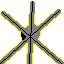
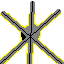
#17: Better sprite for selected obstacle. Add support for selecting obstacles on the map and displaying their HP.

diff --git a/TowerDefenseAttempt1/org/valesz/towerdefatt/Core/Map.cs b/TowerDefenseAttempt1/org/valesz/towerdefatt/Core/Map.cs
@@ -1,6 +1,7 @@
 using System.Collections.Generic;
 using TowerDefenseAttempt1.org.valesz.towerdefatt.Core.Statistics;
 using TowerDefenseAttempt1.org.valesz.towerdefatt.Core.GameShop;
+using Microsoft.Xna.Framework;
 
 namespace TowerDefenseAttempt1.org.valesz.towerdefatt.Core
 {
@@ -62,9 +63,9 @@ namespace TowerDefenseAttempt1.org.valesz.towerdefatt.Core
         public IStatsCollector StatsCollector { get; set; }
 
         /// <summary>
-        /// Tower on map selected by player. Initialized to null.
+        /// Item on a map selected by player. Initialized to null.
         /// </summary>
-        public ITower SelectedMapTower { get; private set; }
+        public ISelectable SelectedItem { get; private set; }
 
         /// <summary>
         /// Spawner to be used on this map.
@@ -85,7 +86,7 @@ namespace TowerDefenseAttempt1.org.valesz.towerdefatt.Core
             Shop = new Shop(availableTowers, availableObstacles);
             Score = 0;
             Money = startingMoney;
-            DeselectMapTower();
+            DeselectMapItems();
             this.spawner = spawner;
             SpawnEnemies();
         }
@@ -162,14 +163,19 @@ namespace TowerDefenseAttempt1.org.valesz.towerdefatt.Core
         }
 
         /// <summary>
-        /// Deselects selected tower on map (if any).
+        /// Deselects selected item on map (if any).
         /// </summary>
-        public void DeselectMapTower()
+        public void DeselectMapItems()
         {
-            SelectedMapTower = null;
+            SelectedItem = null;
             foreach(ITower t in Towers)
             {
                 t.Selected = false;
+            }
+
+            foreach(IObstacle o in Obstacles)
+            {
+                o.Selected = false;
             }
         }
 
@@ -179,10 +185,16 @@ namespace TowerDefenseAttempt1.org.valesz.towerdefatt.Core
         /// </summary>
         public void UpgradeSelectedTower()
         {
-            if (SelectedMapTower != null && Money >= SelectedMapTower.UpgradePrice)
+            if (SelectedItem == null || !(SelectedItem is ITower))
             {
-                Money -= SelectedMapTower.UpgradePrice;
-                SelectedMapTower.Upgrade();
+                return;
+            }
+
+            ITower selectedTower = (ITower)SelectedItem;
+            if (Money >= selectedTower.UpgradePrice)
+            {
+                Money -= selectedTower.UpgradePrice;
+                selectedTower.Upgrade();
                 CollectStatistics(StatsCollectionEvent.TOWER_UPGRADE);
             }
         }
@@ -220,39 +232,72 @@ namespace TowerDefenseAttempt1.org.valesz.towerdefatt.Core
         }
 
         /// <summary>
-        /// Deselects all previously selected towers (on the map) and then selects tower on the map. If the tower on the given coordinates is already
+        /// Deselects all previously selected items (on the map) and then selects one on the map. If the item on the given coordinates is already
         /// selected, this method just deselects it.
         /// </summary>
         /// <param name="x"></param>
         /// <param name="y"></param>
-        public void SelectTowerOnTheMap(float x, float y)
+        public void SelectItemOnTheMap(float x, float y)
         {
             foreach (ITower mapTower in Towers)
             {
-                if ((mapTower.Position.X <= x && mapTower.Position.X + 64 >= x) &&
-                    (mapTower.Position.Y <= y && mapTower.Position.Y + 64 >= y)
-                    )
+                if (mapTower.CheckColision(x, y))
                 {
-                    // tower already selected => deselect
-                    if (mapTower.Selected)
-                    {
-                        DeselectMapTower();
-                    }
-                    else
-                    {
-                        // deselect others and select the current one
-                        DeselectMapTower();
-                        SelectedMapTower = mapTower;
-                        mapTower.Selected = true;
-                    }
+                    HandleItemSelection(mapTower);
+                    return;
+                }
+            }
+
+            foreach (IObstacle obstacle in Obstacles)
+            {
+                if (obstacle.CheckColision(x,y))
+                {
+                    HandleItemSelection(obstacle);
                     return;
                 }
             }
 
             // no tower lise on given coordinates => deselect
-            DeselectMapTower();
+            DeselectMapItems();
         }
 
+        /// <summary>
+        /// Returns any obstacle coliding with the given position.
+        /// </summary>
+        /// <param name="position">Position to check.</param>
+        /// <returns>Obstacle if collision is found or null if nothing is found.</returns>
+        public IObstacle CheckObstacle(Vector2 position)
+        {
+            foreach(IObstacle obstacle in Obstacles)
+            {
+                if (obstacle.CheckColision(position.X, position.Y))
+                {
+                    return obstacle;
+                }
+            }
+
+            return null;
+        }
+
+        /// <summary>
+        /// Handles selection of an item on the map.
+        /// </summary>
+        /// <param name="item">Selected item</param>
+        private void HandleItemSelection(ISelectable item)
+        {
+            // item already selected => deselect
+            if (item.Selected)
+            {
+                DeselectMapItems();
+            }
+            else
+            {
+                // deselect others and select the current one
+                DeselectMapItems();
+                SelectedItem = item;
+                item.Selected = true;
+            }
+        }
 
         /// <summary>
         /// Attempts to call the stat collector with given event. If no collector is set, nothing happens.

diff --git a/TowerDefenseAttempt1/org/valesz/towerdefatt/UI/StatsDisplaySidePanel.cs b/TowerDefenseAttempt1/org/valesz/towerdefatt/UI/StatsDisplaySidePanel.cs
@@ -64,7 +64,7 @@ namespace TowerDefenseAttempt1.org.valesz.towerdefatt.UI
 
             DrawShop(spriteBatch, "Items", cntr++, textures);
 
-            DrawSelectedMapTower(spriteBatch, GameMap.SelectedMapTower, 18);
+            DrawSelectedMapTower(spriteBatch, 18);
         }
 
         /// <summary>
@@ -116,14 +116,24 @@ namespace TowerDefenseAttempt1.org.valesz.towerdefatt.UI
         /// <summary>
         /// Draws tower that is selected on the map.
         /// </summary>
-        private void DrawSelectedMapTower(SpriteBatch spriteBatch, ITower tower, int lineNumber)
+        private void DrawSelectedMapTower(SpriteBatch spriteBatch, int lineNumber)
         {
-            DrawTextLine(spriteBatch, "Selected tower", "", lineNumber);
-            if (GameMap.SelectedMapTower != null)
+            DrawTextLine(spriteBatch, "Selected", "", lineNumber);
+            if (GameMap.SelectedItem == null)
             {
+                return;
+            }
+
+            if (GameMap.SelectedItem is ITower)
+            {
+                ITower tower = (ITower)GameMap.SelectedItem;
                 DrawTextLine(spriteBatch, "Attack", tower.Damage.ToString(), lineNumber+1);
                 DrawTextLine(spriteBatch, "Speed", tower.AttackSpeed.ToString(), lineNumber+2);
                 DrawTextLine(spriteBatch, "(U)pgrade", "x"+tower.UpgradePrice.ToString(), lineNumber+3);
+            } else if (GameMap.SelectedItem is IObstacle)
+            {
+                IObstacle obstacle = (IObstacle)GameMap.SelectedItem;
+                DrawTextLine(spriteBatch, "HP", obstacle.Hp.ToString(), lineNumber + 1);
             }
         }
     }

diff --git a/TowerDefenseAttempt1/Game1.cs b/TowerDefenseAttempt1/Game1.cs
@@ -131,25 +131,34 @@ namespace TowerDefenseAttempt1
             // TODO: Add your update logic here
             if (!gameMap.GameLost() && !gameState.IsPaused())
             {
-                foreach(IHasAI enemy in gameMap.Enemies)
+                foreach (IHasAI enemy in gameMap.Enemies)
                 {
                     enemy.UpdateState(gameMap);
                 }
 
-                foreach(IHasAI tower in gameMap.Towers)
+                foreach (IHasAI tower in gameMap.Towers)
                 {
                     tower.UpdateState(gameMap);
                 }
 
-                for(int i = gameMap.Enemies.Count -1; i >= 0; i--)
+                for (int i = gameMap.Enemies.Count - 1; i >= 0; i--)
                 {
-                    if (gameMap.Enemies[i].Hp == 0)
+                    if (gameMap.Enemies[i].IsDead)
                     {
                         gameMap.AddScore(gameMap.Enemies[i].Value);
                         gameMap.IncrementKillCounter();
                         gameMap.Enemies.RemoveAt(i);
                     }
                 }
+
+                for (int i = gameMap.Obstacles.Count - 1; i >= 0; i--)
+                {
+                    if (gameMap.Obstacles[i].IsDead)
+                    {
+                        gameMap.Obstacles.RemoveAt(i);
+                    }
+                }
+
                 gameMap.SpawnEnemies();
             }
 

diff --git a/TowerDefenseAttempt1/org/valesz/towerdefatt/Controls/MouseHandler.cs b/TowerDefenseAttempt1/org/valesz/towerdefatt/Controls/MouseHandler.cs
@@ -44,10 +44,10 @@ namespace TowerDefenseAttempt1.org.valesz.towerdefatt.Controls
                         if (state.X >= sidePanelX)
                         {
 
-                            if (gameMap.SelectedMapTower != null)
+                            if (gameMap.SelectedItem != null)
                             {
                                 // click ended in the side panel but tower on the map is selected
-                                gameMap.DeselectMapTower();
+                                gameMap.DeselectMapItems();
                             }
 
                             gameMap.Shop.SelectFromShop(state.X, state.Y);
@@ -60,7 +60,7 @@ namespace TowerDefenseAttempt1.org.valesz.towerdefatt.Controls
                         {
                             if (gameMap.Shop.SelectedShopItem == null)
                             {
-                                gameMap.SelectTowerOnTheMap(state.X, state.Y);
+                                gameMap.SelectItemOnTheMap(state.X, state.Y);
                             }
                             else
                             {

diff --git a/TowerDefenseAttempt1/org/valesz/towerdefatt/Core/Abstract/AbstractVisibleObject.cs b/TowerDefenseAttempt1/org/valesz/towerdefatt/Core/Abstract/AbstractVisibleObject.cs
@@ -9,9 +9,23 @@ namespace TowerDefenseAttempt1.org.valesz.towerdefatt.Core.Abstract
     /// </summary>
     public abstract class AbstractVisibleObject : AbstractGameObject, IHasTexture
     {
+        public const uint TEXTURE_WIDTH = 64;
+
         public abstract string TextureName { get; }
         public abstract IEnumerable<string> AllTextures { get; }
 
         public AbstractVisibleObject(float x, float y) : base(x, y) { }
+
+        /// <summary>
+        /// Checks whether the given position collides with this object.
+        /// </summary>
+        /// <param name="x">Position x</param>
+        /// <param name="y">Position y.</param>
+        /// <returns>True if the collision is detected.</returns>
+        public bool CheckColision(float x, float y)
+        {
+            return (Position.X <= x && Position.X + TEXTURE_WIDTH >= x) &&
+                    (Position.Y <= y && Position.Y + TEXTURE_WIDTH >= y);
+        }
     }
 }

diff --git a/TowerDefenseAttempt1/org/valesz/towerdefatt/Enemy/DefaultEnemy.cs b/TowerDefenseAttempt1/org/valesz/towerdefatt/Enemy/DefaultEnemy.cs
@@ -65,7 +65,17 @@ namespace TowerDefenseAttempt1.org.valesz.towerdefatt.Enemy
                 float alpha = (float)Math.Asin(distanceVector.Y / distanceVector.Length());
                 float y1 = (float)(Math.Sin(alpha) * Speed);
                 float x1 = (float)(Math.Cos(alpha) * Speed);
-                Position = new Vector2(Position.X - x1, Position.Y + y1);
+                Vector2 newPosition = new Vector2(Position.X - x1, Position.Y + y1);
+
+                // check if there's an obstacle in the new position and if there is, attack it
+                IObstacle obstacle = gameMap.CheckObstacle(newPosition);
+                if (obstacle != null)
+                {
+                    Attack(obstacle);
+                } else
+                {
+                    Position = newPosition;
+                }
             }
         }
 

diff --git a/TowerDefenseAttempt1/org/valesz/towerdefatt/Core/GameShop/Shop.cs b/TowerDefenseAttempt1/org/valesz/towerdefatt/Core/GameShop/Shop.cs
@@ -142,8 +142,7 @@ namespace TowerDefenseAttempt1.org.valesz.towerdefatt.Core.GameShop
         /// <returns></returns>
         private bool IsClickedOn(IShopItem shopItem, float clickX, float clickY)
         {
-            return (shopItem.Position.X <= clickX && shopItem.Position.X + 64 >= clickX) &&
-                    (shopItem.Position.Y <= clickY && shopItem.Position.Y + 64 >= clickY);
+            return shopItem.CheckColision(clickX, clickY);
         }
     }
 }

diff --git a/TowerDefenseAttempt1/org/valesz/towerdefatt/Core/IHasTexture.cs b/TowerDefenseAttempt1/org/valesz/towerdefatt/Core/IHasTexture.cs
@@ -26,5 +26,13 @@ namespace TowerDefenseAttempt1.org.valesz.towerdefatt.Core
         {
             get;
         }
+
+        /// <summary>
+        /// Checks whether the given position collides with this object.
+        /// </summary>
+        /// <param name="x">Position x</param>
+        /// <param name="y">Position y.</param>
+        /// <returns>True if the collision is detected.</returns>
+        public bool CheckColision(float x, float y);
     }
 }

diff --git a/TowerDefenseAttempt1/org/valesz/towerdefatt/Core/IHasHp.cs b/TowerDefenseAttempt1/org/valesz/towerdefatt/Core/IHasHp.cs
@@ -19,6 +19,11 @@ namespace TowerDefenseAttempt1.org.valesz.towerdefatt.Core
         }
 
         /// <summary>
+        /// Returns true if this entity is dead (has 0 HP).
+        /// </summary>
+        public bool IsDead { get; }
+
+        /// <summary>
         /// Returns the max HP of this entity.
         /// </summary>
         public uint MaxHp { get; }

diff --git a/TowerDefenseAttempt1/org/valesz/towerdefatt/Obstacle/DefaultObstacle.cs b/TowerDefenseAttempt1/org/valesz/towerdefatt/Obstacle/DefaultObstacle.cs
@@ -19,7 +19,7 @@ namespace TowerDefenseAttempt1.org.valesz.towerdefatt.Obstacle
 
         public bool Selected { get; set; }
 
-        public DefaultObstacle(float x, float y) : base(50, x, y)
+        public DefaultObstacle(float x, float y) : base(125, x, y)
         {
             Selected = false;
         }

diff --git a/TowerDefenseAttempt1/org/valesz/towerdefatt/Core/Abstract/AbstractLivingObject.cs b/TowerDefenseAttempt1/org/valesz/towerdefatt/Core/Abstract/AbstractLivingObject.cs
@@ -13,6 +13,8 @@ namespace TowerDefenseAttempt1.org.valesz.towerdefatt.Core.Abstract
 
         public uint MaxHp { get; protected set; }
 
+        public bool IsDead => Hp == 0;
+
         public AbstractLivingObject(uint maxHp, float x, float y) : base(x,y)
         {
             MaxHp = maxHp;
